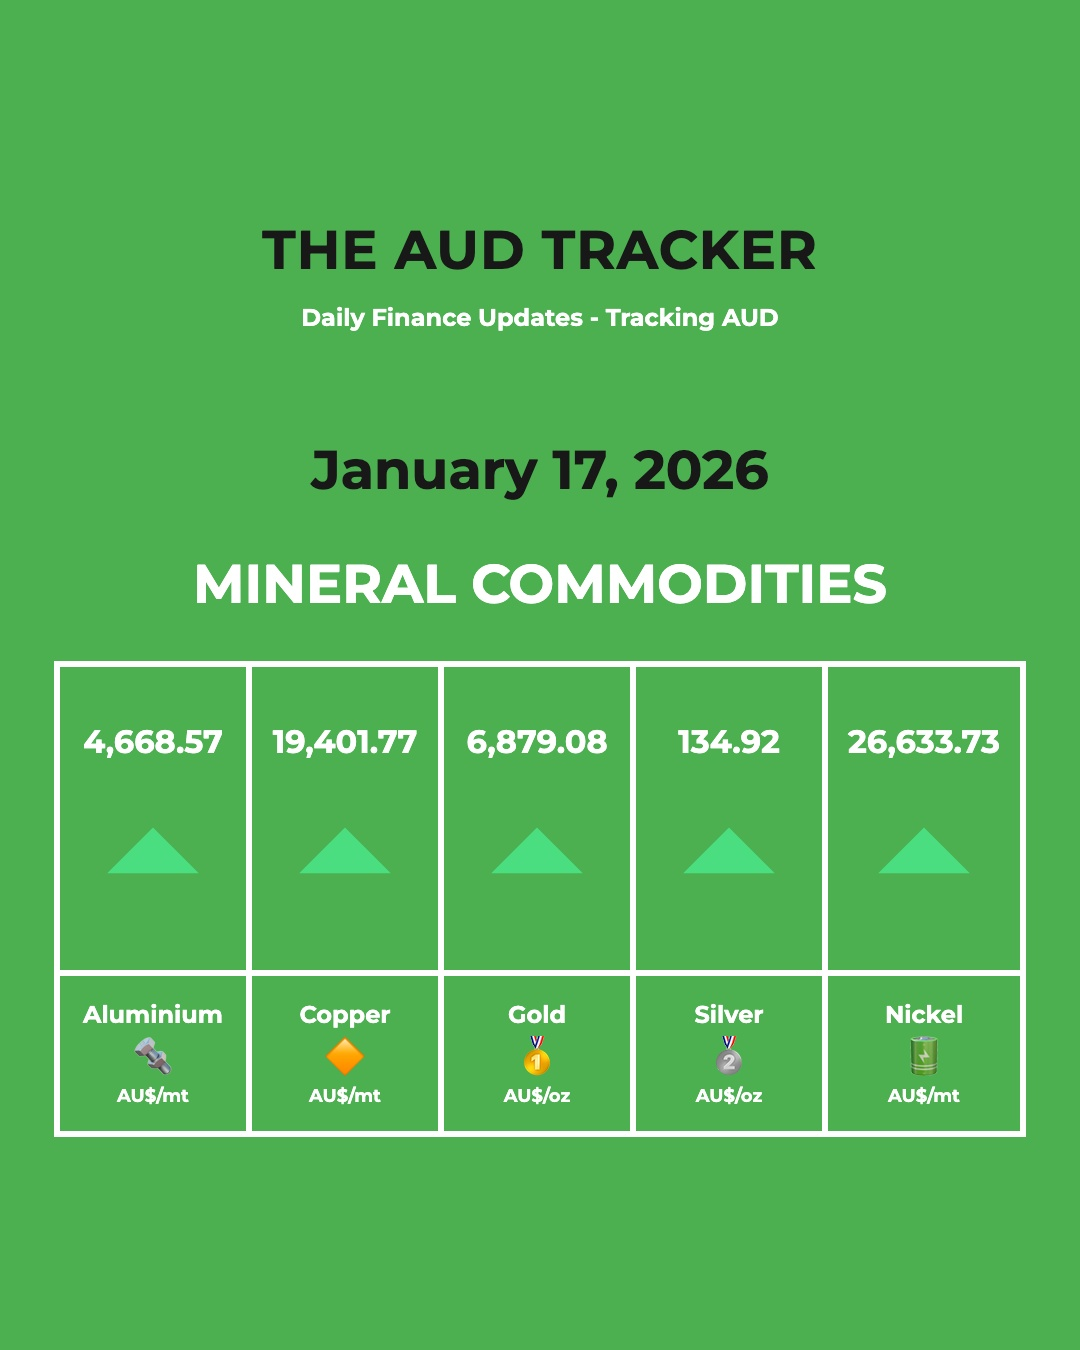
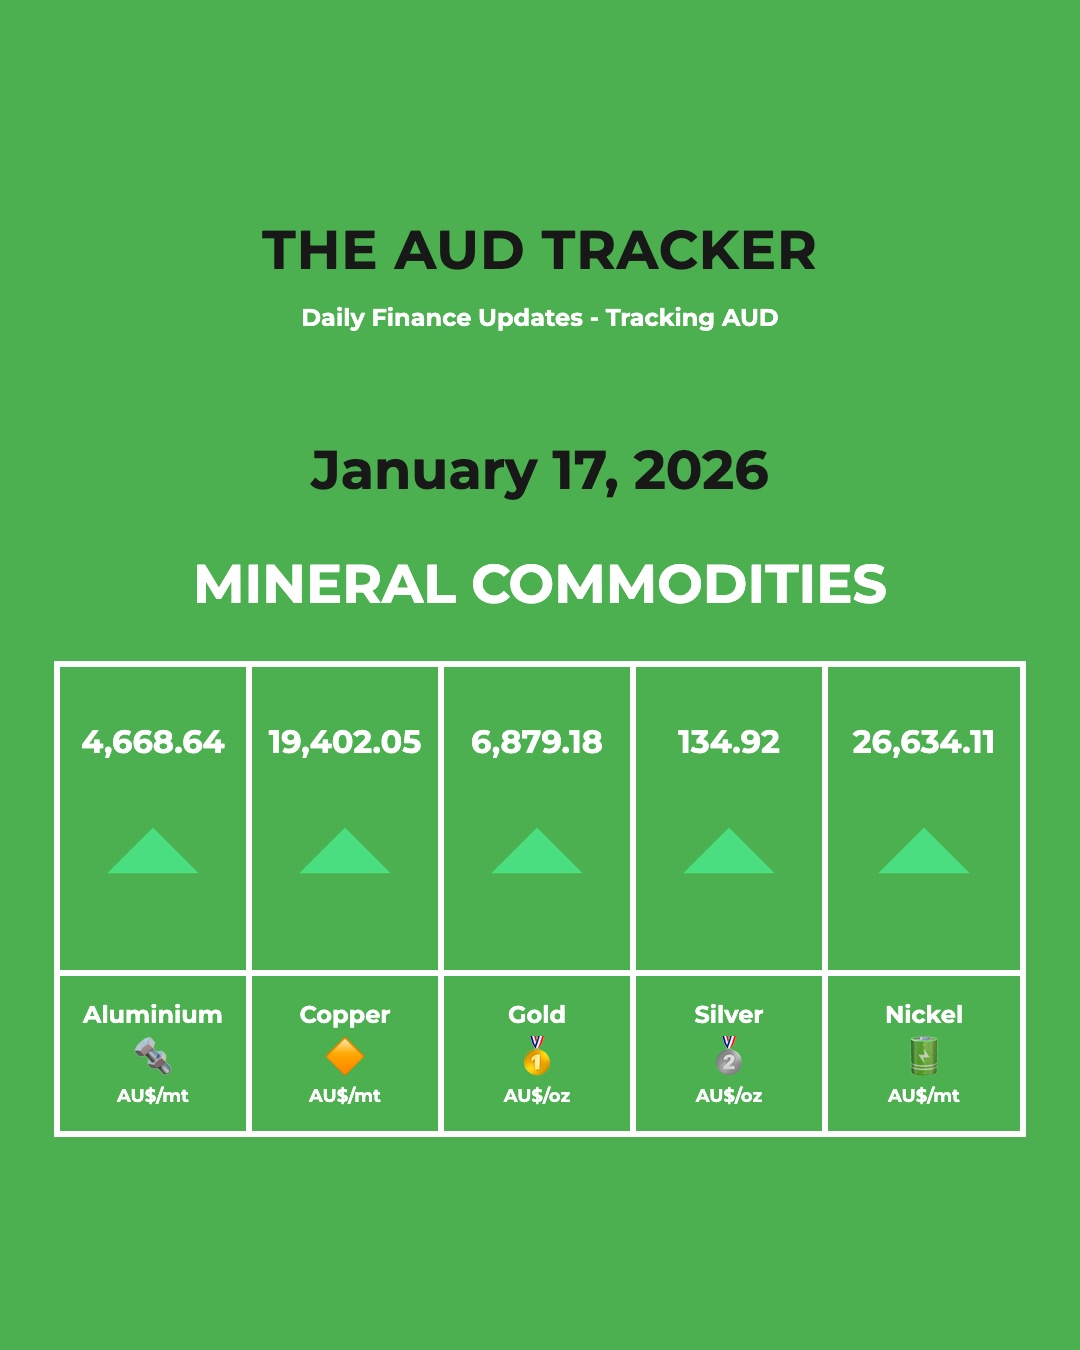
Update daily outputs and HTML generation scripts

diff --git a/data/commodities_data/HTML/commodity_2026-01-18.html b/data/commodities_data/HTML/commodity_2026-01-18.html
@@ -233,24 +233,24 @@
             <div class="table-grid">
                 <!-- First row: Commodity rates -->
                 <div class="table-cell">
-                    <div class="commodity-code">N/A</div>
-                    
+                    <div class="commodity-code">4,668.24</div>
+                    <div class="commodity-arrow arrow-down"><svg viewBox="0 0 24 24" xmlns="http://www.w3.org/2000/svg"><path d="M7 10L12 15L17 10H7Z" fill="currentColor"/></svg></div>
                 </div>
                 <div class="table-cell">
-                    <div class="commodity-code">N/A</div>
-                    
+                    <div class="commodity-code">19,400.38</div>
+                    <div class="commodity-arrow arrow-down"><svg viewBox="0 0 24 24" xmlns="http://www.w3.org/2000/svg"><path d="M7 10L12 15L17 10H7Z" fill="currentColor"/></svg></div>
                 </div>
                 <div class="table-cell">
-                    <div class="commodity-code">N/A</div>
-                    
+                    <div class="commodity-code">6,878.59</div>
+                    <div class="commodity-arrow arrow-down"><svg viewBox="0 0 24 24" xmlns="http://www.w3.org/2000/svg"><path d="M7 10L12 15L17 10H7Z" fill="currentColor"/></svg></div>
                 </div>
                 <div class="table-cell">
-                    <div class="commodity-code">N/A</div>
-                    
+                    <div class="commodity-code">134.91</div>
+                    <div class="commodity-arrow arrow-down"><svg viewBox="0 0 24 24" xmlns="http://www.w3.org/2000/svg"><path d="M7 10L12 15L17 10H7Z" fill="currentColor"/></svg></div>
                 </div>
                 <div class="table-cell">
-                    <div class="commodity-code">N/A</div>
-                    
+                    <div class="commodity-code">26,631.81</div>
+                    <div class="commodity-arrow arrow-down"><svg viewBox="0 0 24 24" xmlns="http://www.w3.org/2000/svg"><path d="M7 10L12 15L17 10H7Z" fill="currentColor"/></svg></div>
                 </div>
                 
                 <!-- Second row: Commodity units -->

diff --git a/data/forex_data/HTML/forex_2026-01-18.html b/data/forex_data/HTML/forex_2026-01-18.html
@@ -243,24 +243,24 @@
             <div class="table-grid">
                 <!-- First row: Currency rates -->
                 <div class="table-cell">
-                    <div class="currency-code">0.669</div>
-                    
+                    <div class="currency-code">0.670</div>
+                    <div class="currency-arrow arrow-up"><svg viewBox="0 0 24 24" xmlns="http://www.w3.org/2000/svg"><path d="M7 14L12 9L17 14H7Z" fill="currentColor"/></svg></div>
                 </div>
                 <div class="table-cell">
-                    <div class="currency-code">0.576</div>
-                    
+                    <div class="currency-code">0.577</div>
+                    <div class="currency-arrow arrow-up"><svg viewBox="0 0 24 24" xmlns="http://www.w3.org/2000/svg"><path d="M7 14L12 9L17 14H7Z" fill="currentColor"/></svg></div>
                 </div>
                 <div class="table-cell">
-                    <div class="currency-code">105.820</div>
-                    
+                    <div class="currency-code">105.900</div>
+                    <div class="currency-arrow arrow-up"><svg viewBox="0 0 24 24" xmlns="http://www.w3.org/2000/svg"><path d="M7 14L12 9L17 14H7Z" fill="currentColor"/></svg></div>
                 </div>
                 <div class="table-cell">
-                    <div class="currency-code">4.660</div>
-                    
+                    <div class="currency-code">4.668</div>
+                    <div class="currency-arrow arrow-down"><svg viewBox="0 0 24 24" xmlns="http://www.w3.org/2000/svg"><path d="M7 10L12 15L17 10H7Z" fill="currentColor"/></svg></div>
                 </div>
                 <div class="table-cell">
-                    <div class="currency-code">0.862</div>
-                    
+                    <div class="currency-code">0.863</div>
+                    <div class="currency-arrow arrow-up"><svg viewBox="0 0 24 24" xmlns="http://www.w3.org/2000/svg"><path d="M7 14L12 9L17 14H7Z" fill="currentColor"/></svg></div>
                 </div>
                 
                 <!-- Second row: Currency units -->

diff --git a/data/commodities_data/HTML/commodity_2026-01-17.html b/data/commodities_data/HTML/commodity_2026-01-17.html
@@ -233,15 +233,15 @@
             <div class="table-grid">
                 <!-- First row: Commodity rates -->
                 <div class="table-cell">
-                    <div class="commodity-code">4,668.57</div>
+                    <div class="commodity-code">4,668.64</div>
                     <div class="commodity-arrow arrow-up"><svg viewBox="0 0 24 24" xmlns="http://www.w3.org/2000/svg"><path d="M7 14L12 9L17 14H7Z" fill="currentColor"/></svg></div>
                 </div>
                 <div class="table-cell">
-                    <div class="commodity-code">19,401.77</div>
+                    <div class="commodity-code">19,402.05</div>
                     <div class="commodity-arrow arrow-up"><svg viewBox="0 0 24 24" xmlns="http://www.w3.org/2000/svg"><path d="M7 14L12 9L17 14H7Z" fill="currentColor"/></svg></div>
                 </div>
                 <div class="table-cell">
-                    <div class="commodity-code">6,879.08</div>
+                    <div class="commodity-code">6,879.18</div>
                     <div class="commodity-arrow arrow-up"><svg viewBox="0 0 24 24" xmlns="http://www.w3.org/2000/svg"><path d="M7 14L12 9L17 14H7Z" fill="currentColor"/></svg></div>
                 </div>
                 <div class="table-cell">
@@ -249,7 +249,7 @@
                     <div class="commodity-arrow arrow-up"><svg viewBox="0 0 24 24" xmlns="http://www.w3.org/2000/svg"><path d="M7 14L12 9L17 14H7Z" fill="currentColor"/></svg></div>
                 </div>
                 <div class="table-cell">
-                    <div class="commodity-code">26,633.73</div>
+                    <div class="commodity-code">26,634.11</div>
                     <div class="commodity-arrow arrow-up"><svg viewBox="0 0 24 24" xmlns="http://www.w3.org/2000/svg"><path d="M7 14L12 9L17 14H7Z" fill="currentColor"/></svg></div>
                 </div>
                 

diff --git a/scripts/generate_forex_html.py b/scripts/generate_forex_html.py
@@ -18,7 +18,6 @@ sys.path.insert(0, os.path.join(os.path.dirname(__file__), '..'))
 from src.currency_collector import fetch_currency_rates
 from src.currency_formatter import standardize_data
 from src.currency_history import load_currency_history_csv
-from src.currency_storage import save_raw_data, save_daily_data, save_to_currency_table
 import pandas as pd
 
 # Import HTML utilities
@@ -157,8 +156,13 @@ def replace_html_placeholders(html_content, data, include_arrows=False):
     # Preserve the date from input data if it exists (for historical dates)
     preserved_date = data.get("date") if isinstance(data, dict) else None
     
-    # Standardize data if needed
-    standardized = standardize_data(data)
+    # Check if data is already standardized (has "currencies" key with proper structure)
+    if isinstance(data, dict) and "currencies" in data and isinstance(data["currencies"], dict):
+        # Data is already standardized, use it directly
+        standardized = data.copy()
+    else:
+        # Data needs standardization
+        standardized = standardize_data(data)
     
     # Use preserved date if available, otherwise use standardized date, otherwise today
     date_str = preserved_date or standardized.get("date") or datetime.now().strftime("%Y-%m-%d")
@@ -244,7 +248,6 @@ def generate_forex_html(template_path, output_dir="data/forex_data", standardize
         template_content = f.read()
     
     # Use provided data or fetch fresh data
-    raw_data = None
     if standardized_data is None:
         print("Fetching daily forex rates...")
         data = fetch_all_currency_rates()
@@ -257,43 +260,8 @@ def generate_forex_html(template_path, output_dir="data/forex_data", standardize
         standardized_data = standardize_data(raw_data)
     else:
         print("Using provided forex data...")
-        # If standardized_data is provided, we still need raw_data for saving
-        # Create a raw_data structure from standardized_data
-        raw_data = {
-            "collection_date": standardized_data.get("timestamp", datetime.now().isoformat()),
-            "currencies": {
-                "timestamp": standardized_data.get("timestamp", datetime.now().isoformat()),
-                "currencies": standardized_data.get("currencies", {})
-            }
-        }
-    
-    # Save raw and processed data, and update CSVs
-    try:
-        print("\nSaving data files...")
-        # Determine base directory for data storage
-        # If output_dir is "data/forex_data", use it directly; otherwise construct path
-        if "forex_data" in output_dir:
-            base_data_dir = output_dir
-        else:
-            base_data_dir = "data/forex_data"
-        
-        # Save raw data (with timestamp)
-        if raw_data:
-            raw_output_dir = os.path.join(base_data_dir, "raw")
-            save_raw_data(raw_data, output_dir=raw_output_dir)
-        
-        # Save daily data (date-based filename, overwrites if exists)
-        processed_output_dir = os.path.join(base_data_dir, "processed")
-        save_daily_data(standardized_data, output_dir=processed_output_dir)
-        
-        # Save to currency history table (CSV)
-        save_to_currency_table(standardized_data)
-        print("✓ Data files saved successfully")
-    except Exception as e:
-        print(f"⚠ Warning: Error saving data files: {e}")
-        # Don't fail HTML generation if data saving fails
-        import traceback
-        traceback.print_exc()
+        # Note: Data saving is handled by the calling script (daily_update.py)
+        # This function only generates HTML/JPEG from the provided standardized_data
     
     # Check if template has arrow placeholders by looking for ARROW placeholders in the content
     is_arrow_template = any(f"{{{{{currency}_ARROW}}}}" in template_content or 

diff --git a/scripts/Forex_Data_Collection/generate_forex_for_date.py b/scripts/Forex_Data_Collection/generate_forex_for_date.py
@@ -10,12 +10,14 @@ import sys
 import os
 from datetime import datetime
 
-# Add src directory to path
-sys.path.insert(0, os.path.join(os.path.dirname(__file__), '..'))
+# Add project root to path
+project_root = os.path.join(os.path.dirname(__file__), '..', '..')
+sys.path.insert(0, os.path.abspath(project_root))
 
 from scripts.generate_forex_html import generate_forex_html
 from src.currency_collector import collect_historical_data_for_date
 from src.currency_formatter import standardize_data
+from src.currency_storage import save_daily_data, save_to_currency_table
 from src.rba_historical_importer import RBAForexImporter
 
 
@@ -91,6 +93,14 @@ def main():
         sys.exit(1)
     
     print(f'Data collected for currencies: {list(standardized.get("currencies", {}).keys())}')
+    
+    # Save processed data (date-based JSON file)
+    print("Saving processed data...")
+    save_daily_data(standardized, output_dir="data/forex_data/processed")
+    
+    # Save to currency history table (CSV)
+    print("Updating currency history table (CSV)...")
+    save_to_currency_table(standardized)
     
     # Generate the output - always use HTML template
     template_path = 'templates/forex_template.html'

diff --git a/scripts/generate_mineral_commodities_html.py b/scripts/generate_mineral_commodities_html.py
@@ -145,8 +145,13 @@ def replace_html_placeholders(html_content, data, include_arrows=False):
     # Preserve the date from input data if it exists (for historical dates)
     preserved_date = data.get("date") if isinstance(data, dict) else None
     
-    # Standardize data if needed
-    standardized = standardize_commodity_data(data)
+    # Check if data is already standardized (has "commodities" key with proper structure)
+    if isinstance(data, dict) and "commodities" in data and isinstance(data["commodities"], dict):
+        # Data is already standardized, use it directly
+        standardized = data.copy()
+    else:
+        # Data needs standardization
+        standardized = standardize_commodity_data(data)
     
     # Use preserved date if available, otherwise use standardized date, otherwise today
     date_str = preserved_date or standardized.get("date") or datetime.now().strftime("%Y-%m-%d")
